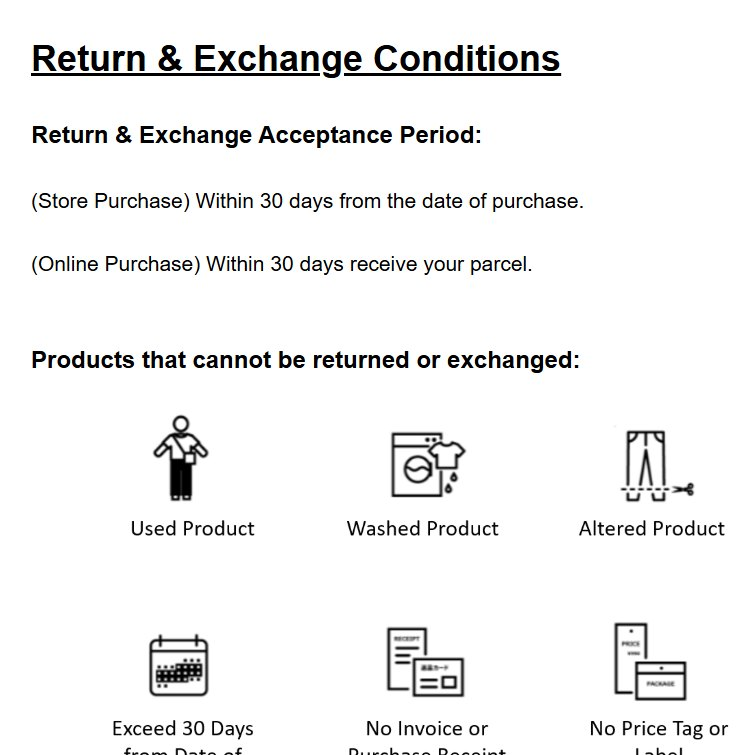
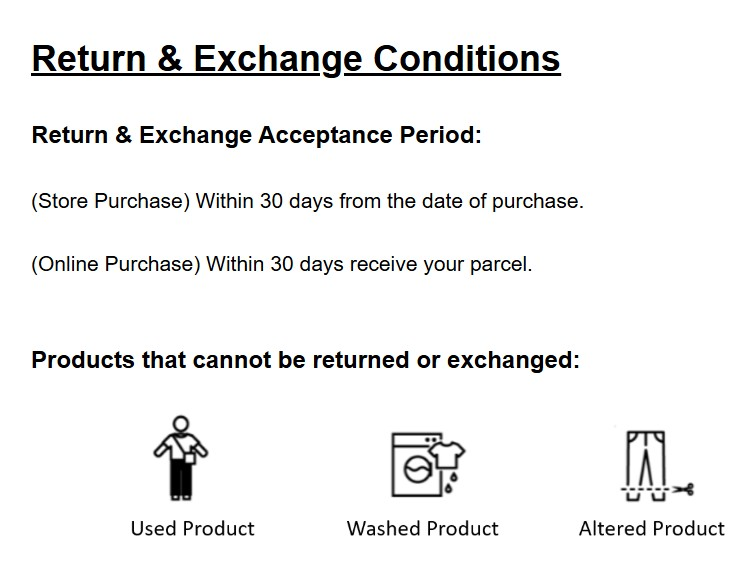
Updates from Dan

diff --git a/CLAUDE.md b/CLAUDE.md
@@ -68,5 +68,23 @@ Hosting and back end (different from V45, which used Vercel):
 - Build in small slices and stop for review after each one (see the build prompt for the order).
 - Do not add features the storyboard does not ask for (timers, extra inputs, sounds, animations, extra badges). Suggest them to the user instead.
 - After each slice, test at 1280px and 360px wide (Playwright is available) and check: wording matches the storyboard, nothing pre-selected, locks work, saving and reloading restores work, no ampersand on any student screen, no console errors.
+- Every check is also a **visual check**. Open every new screenshot and look at it as a designer would, then fix anything that fails before reporting:
+  - Alignment: items side by side line up (same top edge for inputs, same heights for cards in a row, labels and boxes on a shared baseline). Nothing looks ragged or randomly sized.
+  - Consistency: the same kind of element looks the same everywhere (cards, tips, definition boxes, buttons, images, captions).
+  - Spacing: the 40 to 48px and 12 to 16px rhythm is kept; nothing touches, nothing floats too far away.
+  - Images: never clipped or cut off, never stretched, sensible size, and images placed side by side are the same height.
+  - Visual appeal: the page looks inviting to a 15-year-old, not like a form or a wall of text.
+  Report what you checked and fixed visually, not only the test results.
+
+## Designing for G1 students (Mayer's multimedia principles)
+
+The app is for G1 students, many with lower literacy, who rely on visual and multimedia support. Apply Mayer's principles on every screen:
+- **Multimedia:** words and pictures together. Every section of notes gets a visual anchor: a comic, a diagram, or an icon beside each key point. A list of more than three items becomes icon cards or icon chips, not a plain bullet list.
+- **Signaling:** textbook definitions sit in a clearly styled "definition" box; key words are bold; headings carry an icon; numbered steps look like steps.
+- **Spatial contiguity:** each picture, icon or example sits right next to the words it explains; feedback sits right under its question.
+- **Coherence:** icons and pictures must explain something (no decoration for its own sake), and wording stays exactly as in the storyboard. Visual treatment changes how text looks, never what it says.
+- **Segmenting:** no more than about one screen of reading before the next Continue ↓.
+- **Pre-training, personalization and image principles:** as in the storyboard (key terms first; a friendly "you" tone; no talking-head guide characters).
+- Use emoji as icons (they need no image files and work on every device), at a consistent size, with hidden text for screen readers where the emoji carries meaning.
 - Keep `APP_VERSION` in `app.js` up to date and shown in the footer.
 - When this session's context runs low, update `docs/progress.md` (what is built, what is next, open questions) so a fresh session can carry on.

diff --git a/docs/storyboard.md b/docs/storyboard.md
@@ -619,7 +619,7 @@ This storyboard is the single source of truth for the app. It moves the content 
 <td><strong>Alt text</strong></td>
 <td><p>C04: Two-panel comic. "SERVICE BREAKDOWN": the customer holds a cracked phone: "I just bought this phone and the screen is already cracked!" The staff member: "I'm really sorry to hear that. Let me take a look and help you with this." "SERVICE RECOVERY": the staff member hands over a new phone box: "You're welcome! If you need any further help, just let us know." The customer: "Thank you so much for helping me! I'm really happy with the new phone."</p>
 <p>R01: Chat screenshot. The customer writes that they have ordered from the merchant at least 4 times and every order was cancelled. Two replies say "oh" and "so sad". R02: Foodpanda voucher reading "Here's $3.3000000000000003 to say we're sorry."</p>
-<p>R03: Uniqlo return and exchange conditions: returns within 30 days; products that cannot be returned or exchanged include used, washed and altered products, items past 30 days, items with no receipt and items with no price tag.</p></td>
+<p>R03: Uniqlo return and exchange conditions: returns within 30 days of purchase; products that cannot be returned or exchanged include used, washed and altered products.</p></td>
 </tr>
 <tr class="even">
 <td><strong>Teacher only</strong></td>
